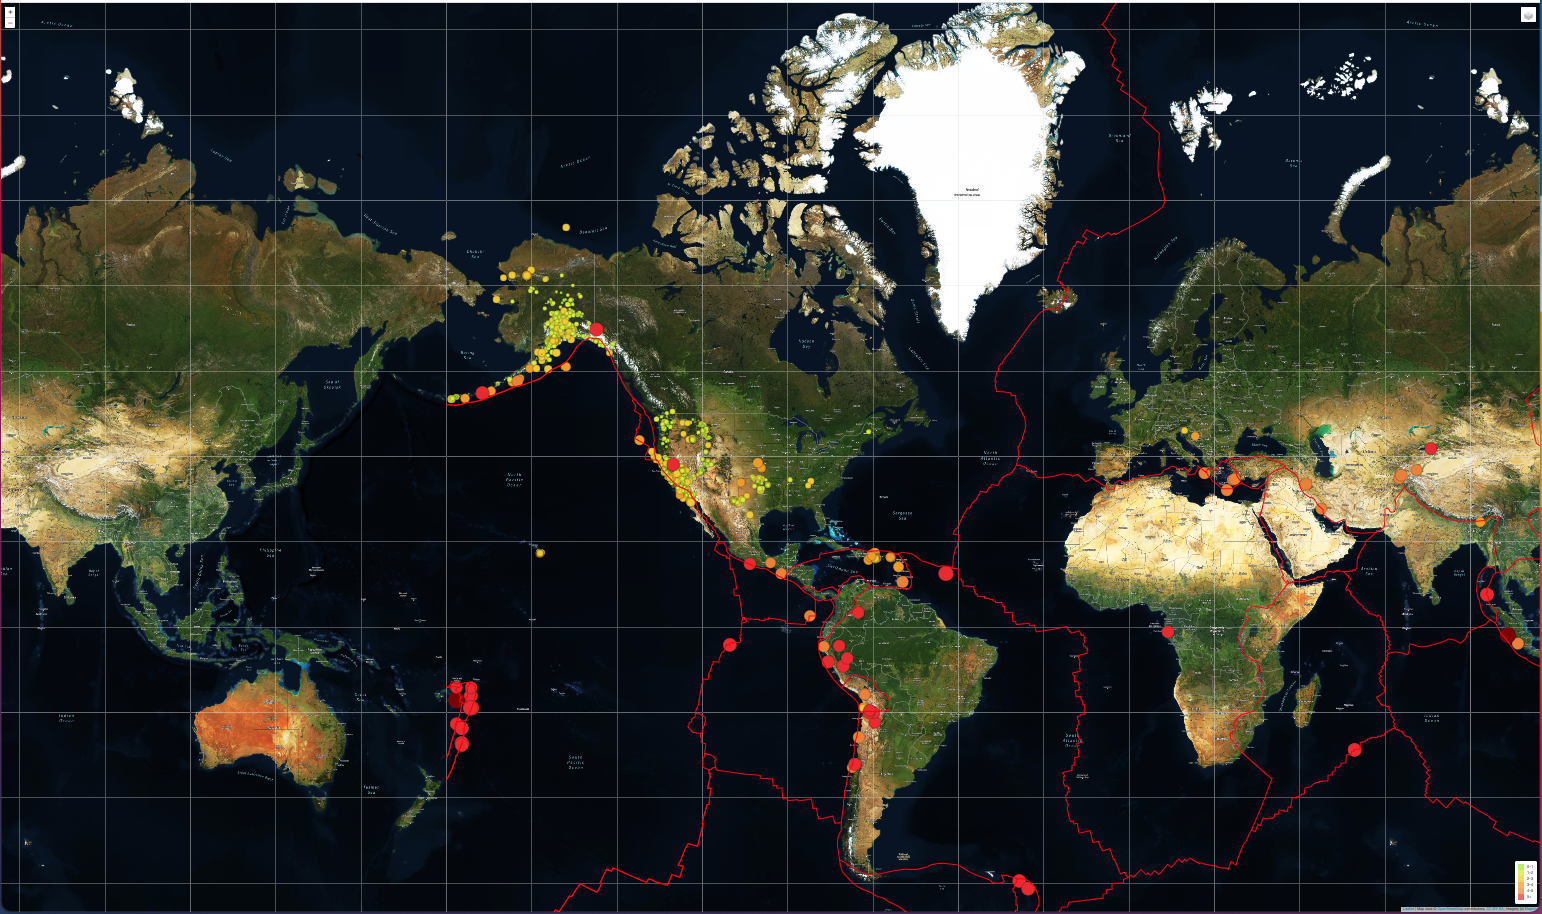
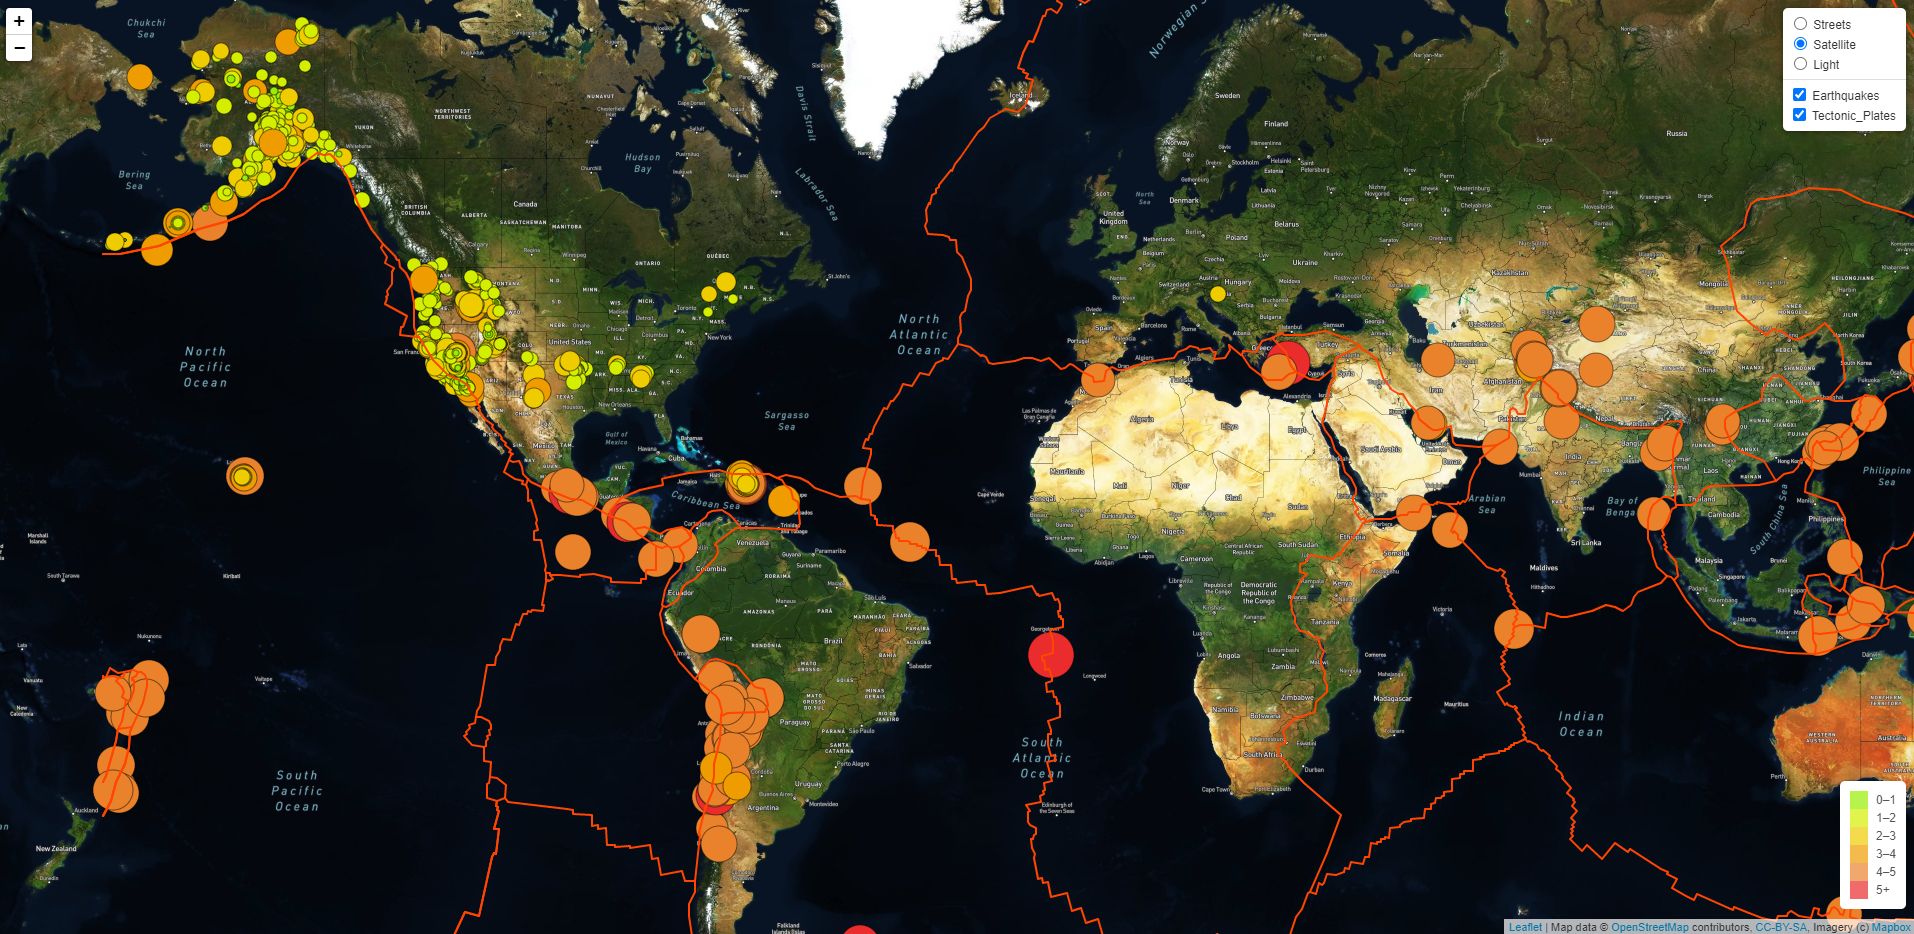
Challenge 13

diff --git a/README.md b/README.md
@@ -1,2 +1,26 @@
 # Mapping_Earthquakes
-- This project uses data provided by U.S.Geological Survey (usgs.gov) to show a visual repersentation of all of the earthquakes on the planet over the last 7 days. - This project was created using Javascript's Leaflet, D3 libraries and Mapbox's API, and GeoJson data from usgs.gov. The final product is in the Earthquake_Challenge folder ( https://github.com/pasmi369/Mapping_Earthquakes/tree/main/Earthquake_Challenge ). Please enjoy!
+- This project uses data provided by U.S.Geological Survey (usgs.gov) to show a visual repersentation of all of the earthquakes on the planet over the last 7 days.
+- The final product is in the Earthquake_Challenge folder [Earthquake_Challenge]( https://github.com/pasmi369/Mapping_Earthquakes/tree/main/Earthquake_Challenge ).  
+
+## Data Citation
+- The Earthquake data is from [earthquake.usgs.gov](https://earthquake.usgs.gov/).
+- Map API calls are processed from [Mapbox](https://www.mapbox.com/).
+- [Leaflet](https://leafletjs.com/) is the JavaScript library used to format the API information.
+
+## Overview
+- The goal of the project was to create an interactive map showing earthquake data from the past 7 days. 
+- This project was created using Javascript's Leaflet, D3 libraries and Mapbox's API, and GeoJson data from usgs.gov. 
+- The JavaScript code is in the [Challenge_Logic.js](https://github.com/pasmi369/Mapping_Earthquakes/blob/main/Earthquake_Challenge/static/js/challenge_logic.js) file 
+- The HTML code for the site is in the [Index.html](https://github.com/pasmi369/Mapping_Earthquakes/blob/main/Earthquake_Challenge/index.html) file.
+
+## Results (Map Views)
+- ### Streets View
+![streets_view](./Resources/streets_tectonic_earthquakes.png)
+- ### Satellite View
+![satellite_view](./Resources/satellite_view.png)
+- ### Streets Major Earthquakes View
+![streets_major_earthquakes](./Resources/streets_major_earthquakes.png)
+- ### Dark View
+![dark_view](./Resources/dark_view.png)
+- ### Light View
+![light_view](./Resources/light_view.png)
